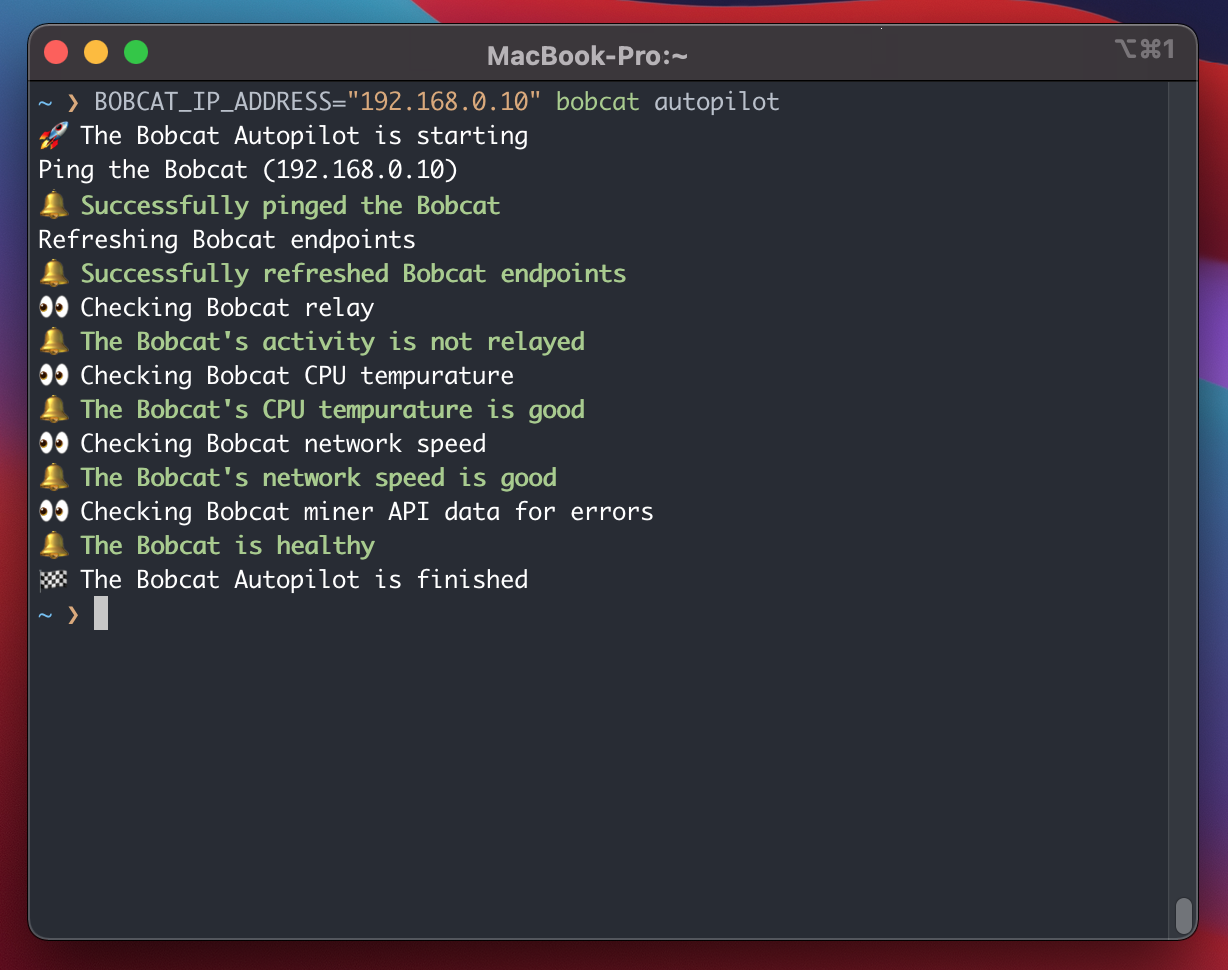
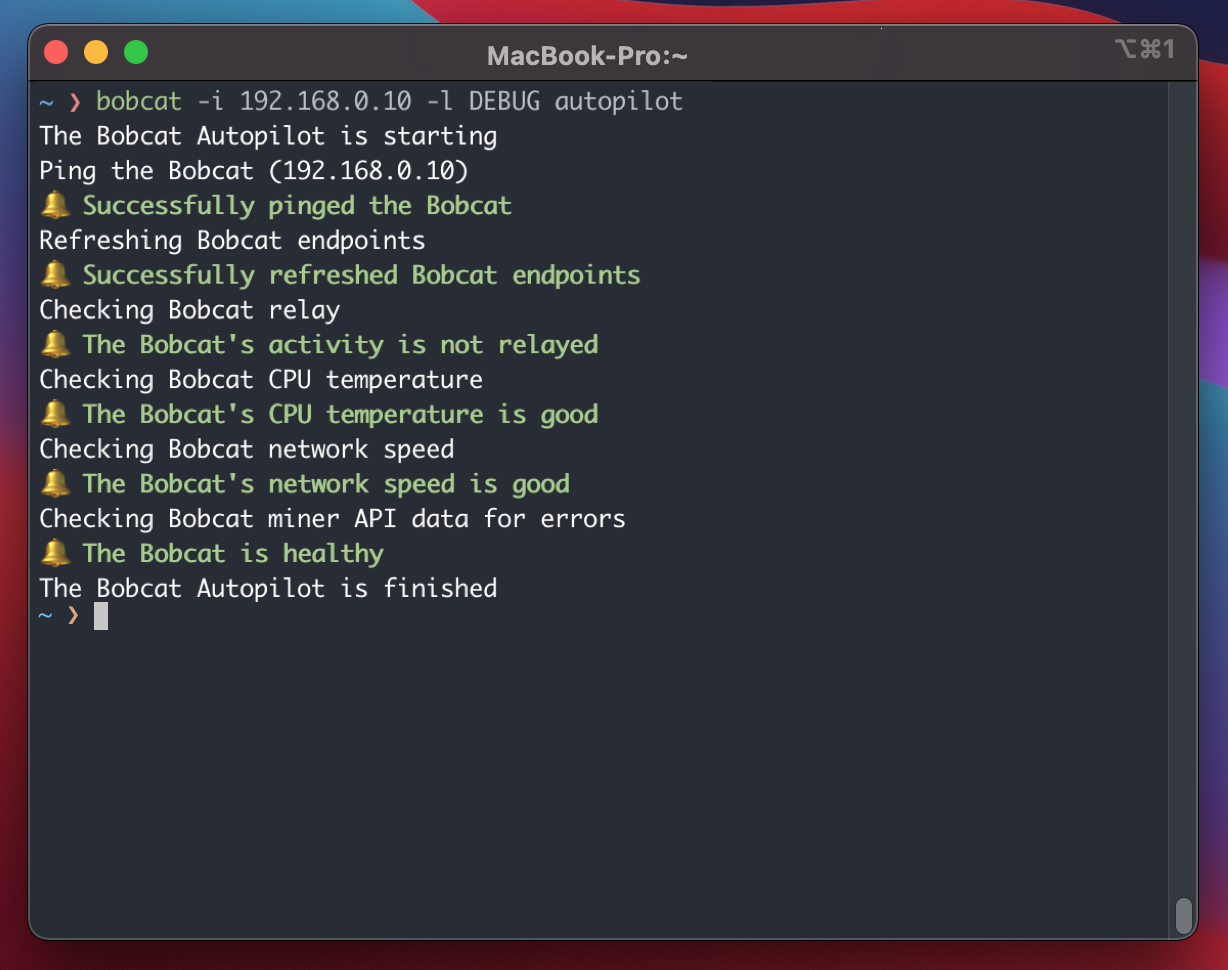
fixed README for spelling errors.

Changed region(s): [[0.0309, 0.0928, 0.6498, 0.6186]]

diff --git a/src/bobcat_miner/autopilot.py b/src/bobcat_miner/autopilot.py
@@ -94,9 +94,9 @@ class Autopilot:
         return is_relayed
 
     def is_temp_dangerous(self):
-        """Diagnosing the Bobcat's CPU tempurature"""
+        """Diagnosing the Bobcat's CPU temperature"""
 
-        self.logger.debug("👀 Checking Bobcat CPU tempurature")
+        self.logger.debug("👀 Checking Bobcat CPU temperature")
 
         is_too_cold = self.bobcat.temp0 < 0 or self.bobcat.temp1 < 0
         is_hot_warning = (self.bobcat.temp0 >= 65 and self.bobcat.temp0 < 70) or (
@@ -120,7 +120,7 @@ class Autopilot:
                 "Troubleshooting Guide: https://bobcatminer.zendesk.com/hc/en-us/articles/4407605756059-Sync-Status-Temp-Monitoring"
             )
         else:
-            self.logger.info("The Bobcat's CPU tempurature is good")
+            self.logger.info("The Bobcat's CPU temperature is good")
 
         return is_temp_dangerous
 
@@ -247,9 +247,7 @@ class Autopilot:
 
         if has_errors:
             self.logger.error("The Bobcat has errors")
-            self.logger.debug(
-                "Troubleshooting Guide: https://www.nowitness.org/troubleshooting/"
-            )
+            self.logger.debug("Troubleshooting Guide: https://www.nowitness.org/troubleshooting/")
         else:
             self.logger.info("The Bobcat is healthy")
 
@@ -383,7 +381,7 @@ class Autopilot:
             return
 
         if self.bobcat.status.upper() in ["ERROR", "DOWN"] or self.bobcat.error:
-            self.logger.warning("Cancel fastsync because it only works on a healthly Bobcat")
+            self.logger.warning("Cancel fastsync because it only works on a healthy Bobcat")
             return
 
         if self.bobcat.gap <= 400:
@@ -558,7 +556,7 @@ class Autopilot:
             )
 
         except Exception as err:
-            self.logger.exception(f"An unexpected error has occured: {str(err)}")
+            self.logger.exception(f"An unexpected error has occurred: {str(err)}")
 
         finally:
             self.logger.debug("🏁 The Bobcat Autopilot is finished")

diff --git a/src/bobcat_miner/helpers.py b/src/bobcat_miner/helpers.py
@@ -187,8 +187,8 @@ def get_logger(log_level, log_file, discord_webhook_url, discord_message_monospa
 #     logger.info("Successfully refreshed Bobcat endpoints")
 #     logger.debug("👀 Checking Bobcat relay")
 #     logger.info("The Bobcat's activity is not relayed")
-#     logger.debug("👀 Checking Bobcat CPU tempurature")
-#     logger.info("The Bobcat's CPU tempurature is good")
+#     logger.debug("👀 Checking Bobcat CPU temperature")
+#     logger.info("The Bobcat's CPU temperature is good")
 #     logger.debug("👀 Checking Bobcat network speed")
 #     logger.info("The Bobcat's network speed is good")
 #     logger.debug("👀 Checking Bobcat miner API data for errors")

diff --git a/src/bobcat_miner/cli.py b/src/bobcat_miner/cli.py
@@ -225,7 +225,7 @@ def temp(ctx, pprint):
     except requests.RequestException:
         _network_handler(bobcat, autopilot)
     except Exception as err:
-        autopilot.logger.exception("Failed to get the Bobcat tempurature data")
+        autopilot.logger.exception("Failed to get the Bobcat temperature data")
 
 
 @cli.command()

diff --git a/README.md b/README.md
@@ -44,7 +44,7 @@ $ bobcat -i 192.168.0.10 --dry-run autopilot
 
 ### Discord Monitoring
 
-The `bobcat` command line tool supports sending logs to a Discord channel using a [webhook url](https://support.discord.com/hc/en-us/articles/228383668-Intro-to-Webhooks).
+Send `bobcat` logs to a Discord channel using a [webhook url](https://support.discord.com/hc/en-us/articles/228383668-Intro-to-Webhooks)
 
 ```bash
 $ export BOBCAT_IP_ADDRESS=192.168.0.10
@@ -53,13 +53,13 @@ $ bobcat autopilot
 🚀 The Bobcat Autopilot is starting
 ```
 
-and check Discord
+and watch your logs stream your Discord channel!
 
 ![Bobcat Autopilot Discord](https://raw.githubusercontent.com/aidanmelen/bobcat-miner-python/main/images/bobcat-autopilot-discord.png)
 
-### File Log
+### Log File
 
-Send logs to a file with
+Send logs to a file
 
 ```bash
 $ bobcat --ip-address 192.168.0.10 --log-file bobcat-autopilot.log autopilot
@@ -86,7 +86,7 @@ $ docker run --rm -it aidanmelen/bobcat -i 192.168.0.10 status
 ```python
 import bobcat_miner
 
-bobcat = bobcat_miner.Bobcat("192.168.1.10")
+bobcat = bobcat_miner.Bobcat("192.168.1.100")
 autopilot = bobcat_miner.Autopilot(bobcat)
 
 # Automatically diagnose and repair the Bobcat
@@ -113,7 +113,7 @@ autopilot.is_syncing()  # Poll the Bobcat's gap to see if it is syncing over tim
 ```python
 import bobcat_miner
 
-bobcat = bobcat_miner.Bobcat("192.168.1.10")
+bobcat = bobcat_miner.Bobcat("192.168.1.100")
 
 # refresh
 bobcat.refresh_status()
